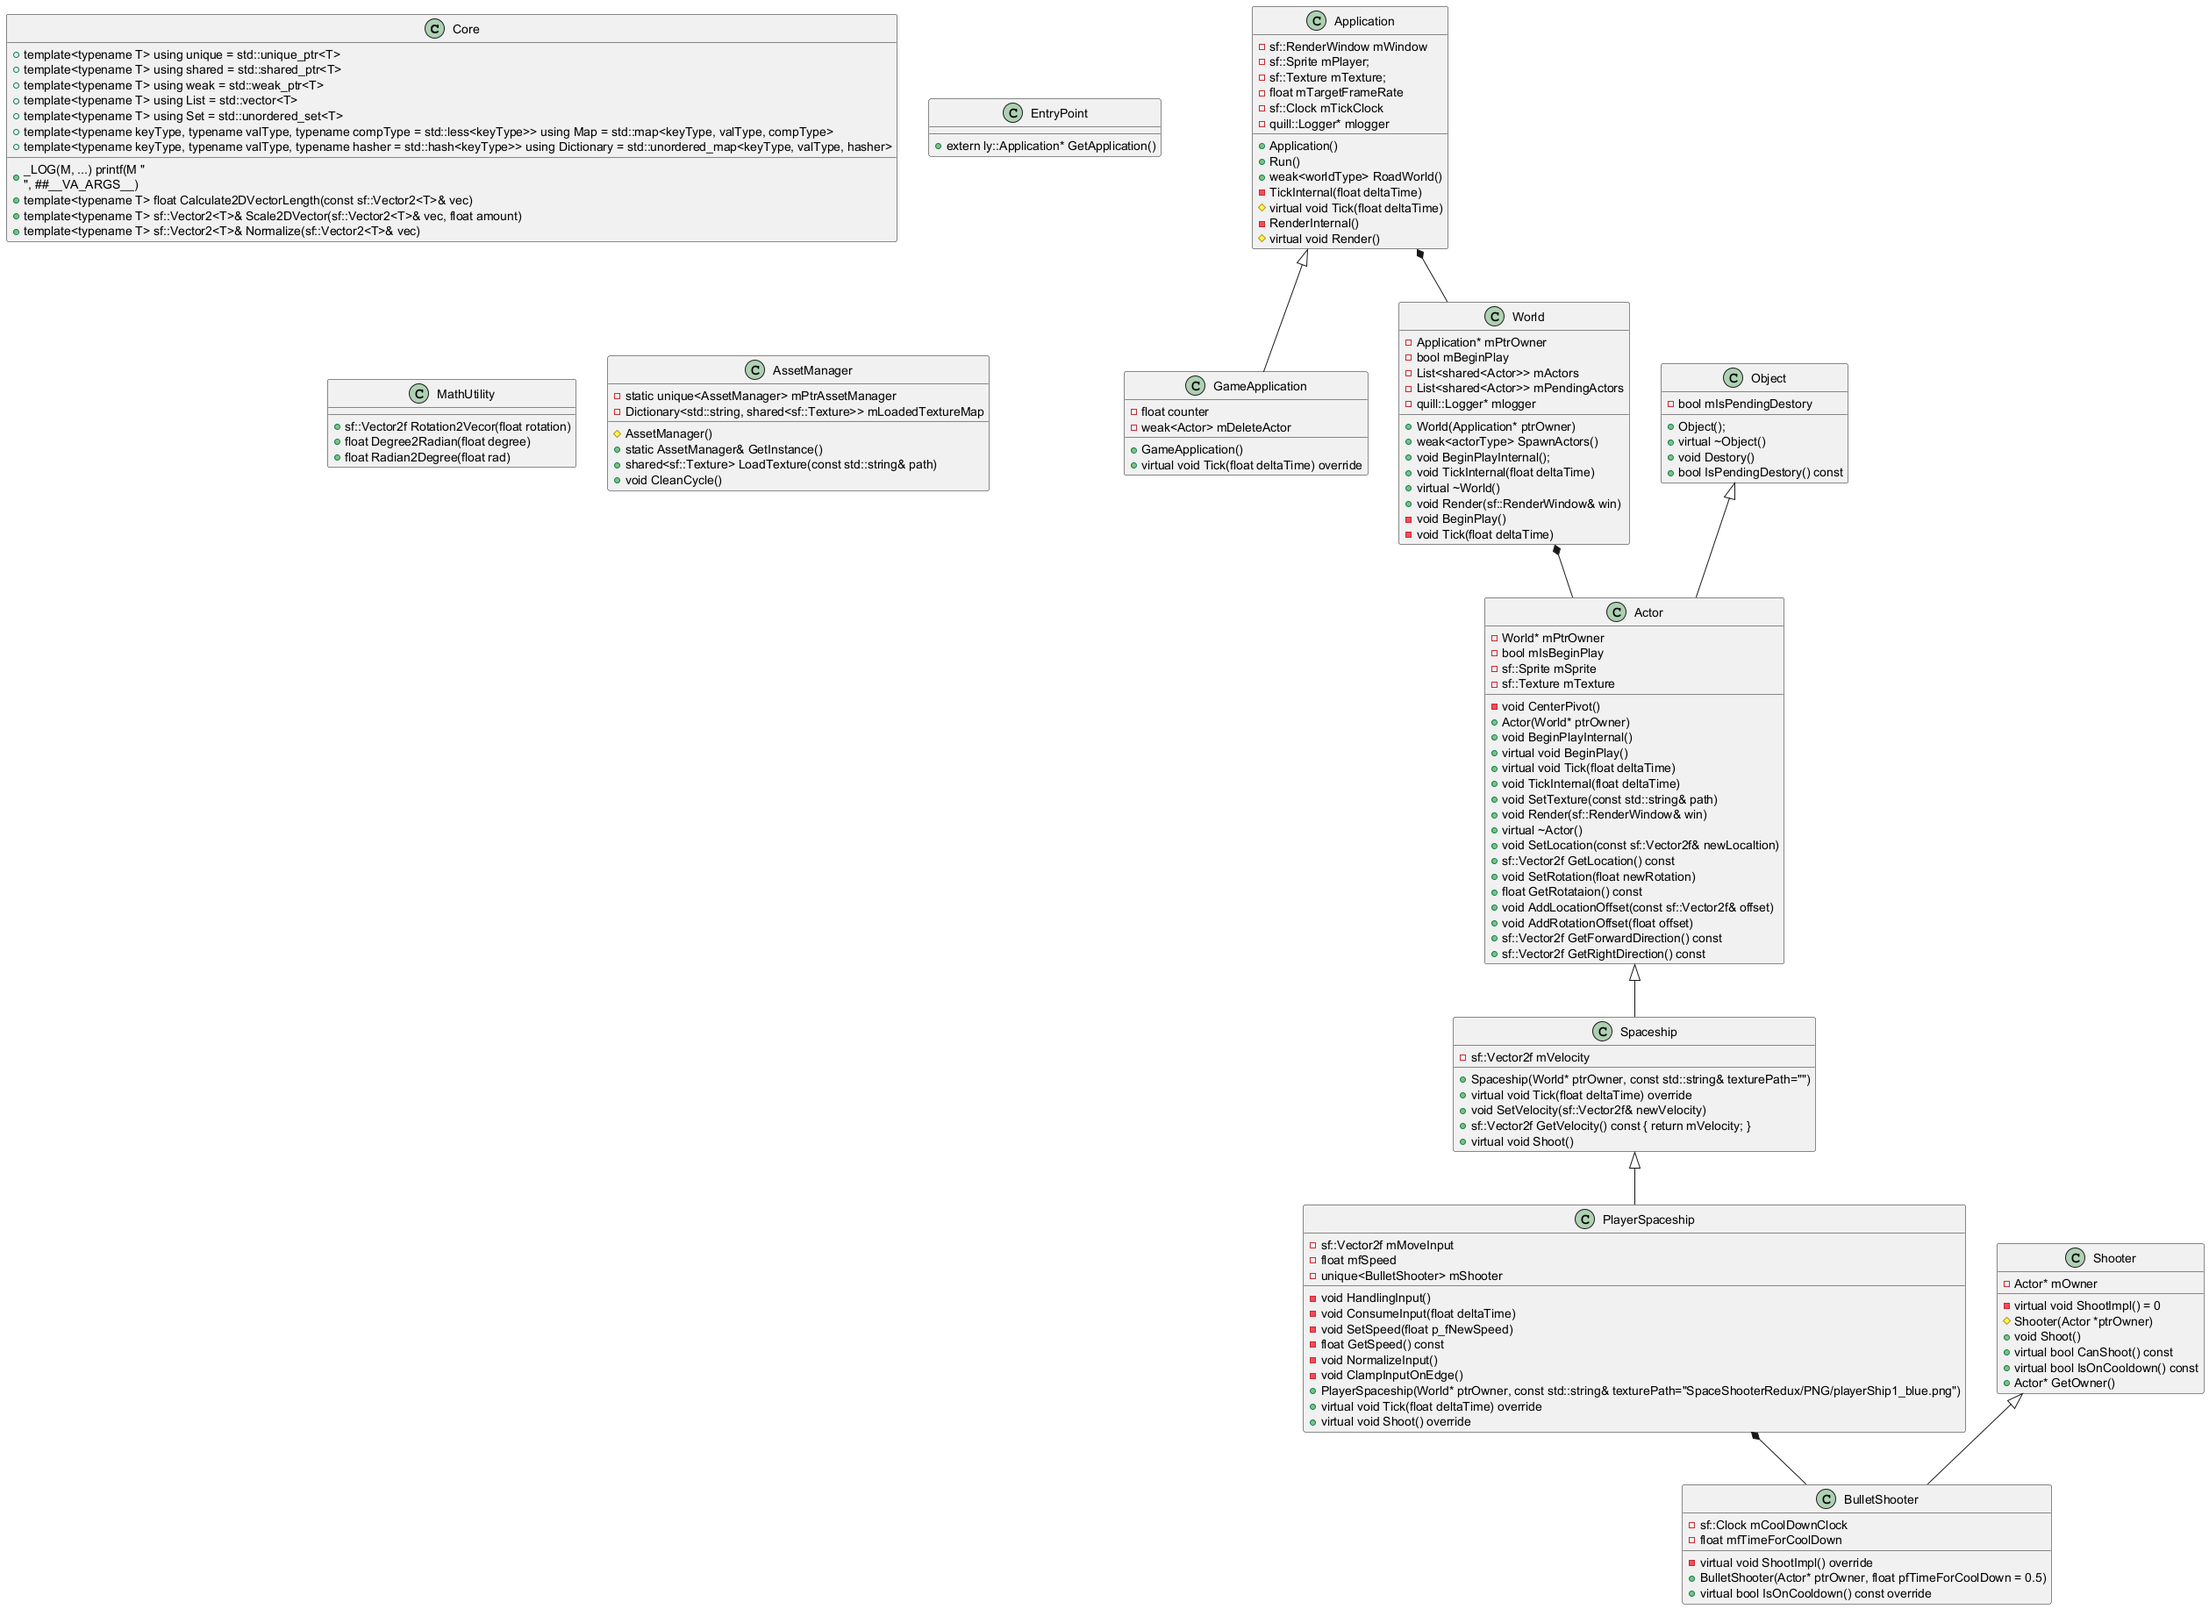
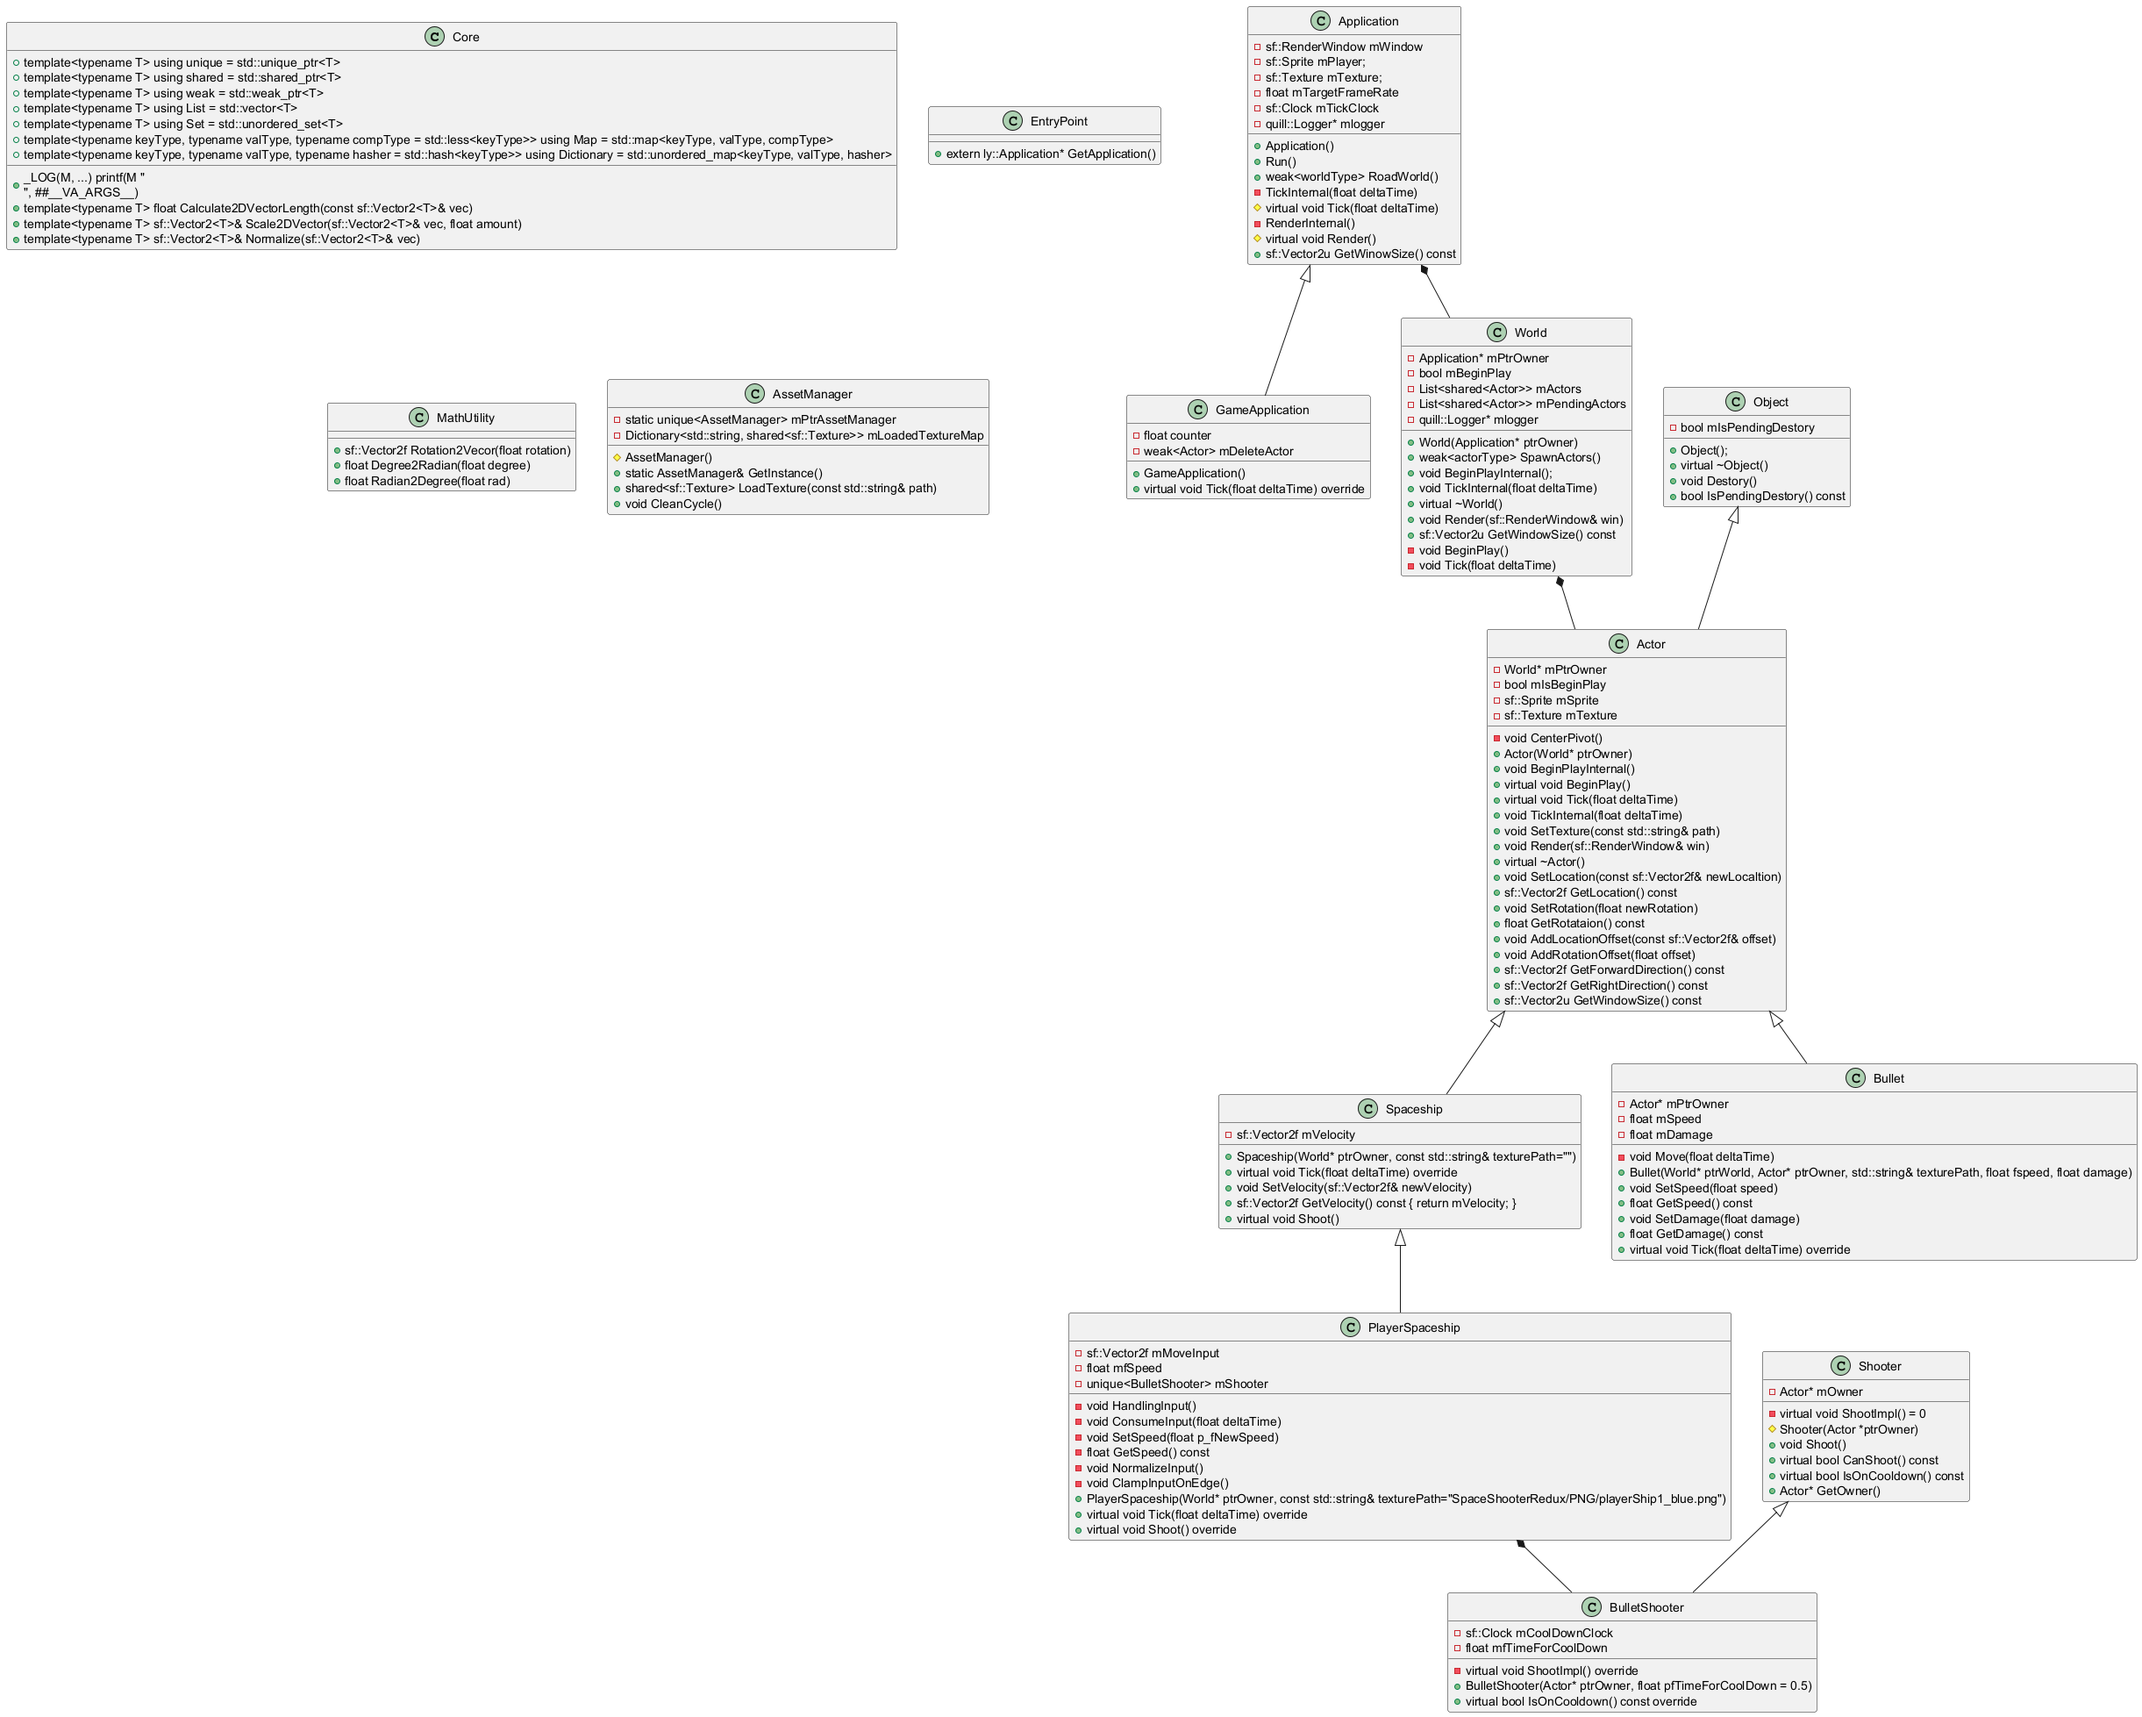
solved the problem bullets are firing sideways

diff --git a/game/src/player/PlayerSpaceship.cpp b/game/src/player/PlayerSpaceship.cpp
@@ -8,7 +8,7 @@ ly::PlayerSpaceship::PlayerSpaceship(World* ptrOwner, const std::string& texture
 	:Spaceship{ ptrOwner , texturePath }, 
 	 mDisplacementInput{}, 
 	mfSpeed{200.f}, 
-	mShooter{new BulletShooter(this)}
+	mShooter{ new BulletShooter{this} }
 {
 }
 
@@ -24,17 +24,17 @@ void ly::PlayerSpaceship::HandlingInput()
 {
 	//If we not use if else for the oppose key detected, it allow diagonal move 
 	if (sf::Keyboard::isKeyPressed(sf::Keyboard::Up) || sf::Keyboard::isKeyPressed(sf::Keyboard::W)) {
-		mDisplacementInput.y += -1.f;
+		mDisplacementInput.y = -1.f;
 	}
 	else if (sf::Keyboard::isKeyPressed(sf::Keyboard::Down) || sf::Keyboard::isKeyPressed(sf::Keyboard::S)) {
-		mDisplacementInput.y += 1.f;
+		mDisplacementInput.y = 1.f;
 	}
 	
 	if (sf::Keyboard::isKeyPressed(sf::Keyboard::Left) || sf::Keyboard::isKeyPressed(sf::Keyboard::A)) {
-		mDisplacementInput.x += -1.f;
+		mDisplacementInput.x = -1.f;
 	}
 	else if (sf::Keyboard::isKeyPressed(sf::Keyboard::Right) || sf::Keyboard::isKeyPressed(sf::Keyboard::D)) {
-		mDisplacementInput.x += 1.f;
+		mDisplacementInput.x = 1.f;
 	}
 
 	
@@ -72,7 +72,7 @@ void ly::PlayerSpaceship::ClampInputOnEdge()
 {
 	sf::Vector2f curLoc = GetLocation();
 	//Check if the postion x is on 0, and player still want to move left, set mMoveInput.x = 0
-	if (curLoc.x <= epsilon && mDisplacementInput.x == -1) {
+	if (curLoc.x < epsilon && mDisplacementInput.x == -1) {
 		mDisplacementInput.x = 0.f;
 	}
 
@@ -80,7 +80,7 @@ void ly::PlayerSpaceship::ClampInputOnEdge()
 		mDisplacementInput.x = 0.f;
 	}
 
-	if (curLoc.y <= epsilon && mDisplacementInput.y == -1) {
+	if (curLoc.y < epsilon && mDisplacementInput.y == -1) {
 		mDisplacementInput.y = 0.f;
 	}
 

diff --git a/engine/include/framework/World.h b/engine/include/framework/World.h
@@ -24,8 +24,9 @@ namespace ly {
 		virtual ~World();
 		void Render(sf::RenderWindow& win);
 
-		template<typename actorType>
-		weak<actorType> SpawnActors();
+		//Handle the Bullet, it need to change it
+		template<typename actorType, typename... Args>
+		weak<actorType> SpawnActors(Args... args);
 
 		sf::Vector2u GetWindowSize() const { return mPtrOwner->GetWinowSize(); }
 
@@ -41,9 +42,9 @@ namespace ly {
 
 	};
 
-	template<typename actorType>
-	weak<actorType> World::SpawnActors() {
-		shared<actorType> newActor{ new actorType{this} };
+	template<typename actorType, typename... Args>
+	weak<actorType> World::SpawnActors(Args... args) {
+		shared<actorType> newActor{ new actorType(this, args...) };
 		mPendingActors.push_back(newActor);
 		return newActor;
 	}

diff --git a/game/src/weapon/BulletShooter.cpp b/game/src/weapon/BulletShooter.cpp
@@ -1,5 +1,8 @@
 #include "weapon/BulletShooter.h"
+#include "weapon/Bullet.h"
 #include <framework/Core.h>
+#include "framework/World.h"
+
 
 ly::BulletShooter::BulletShooter(Actor* ptrOwner, float pfTimeForCoolDown)
 	:Shooter{ ptrOwner },
@@ -21,5 +24,11 @@ bool ly::BulletShooter::IsOnCooldown() const
 void ly::BulletShooter::ShootImpl()
 {
 	mCoolDownClock.restart();
+	weak<Bullet> newBullet = GetOwner()->GetWorld()->SpawnActors<Bullet>(GetOwner(), "SpaceShooterRedux/PNG/Lasers/laserBlue01.png");
+	
+	newBullet.lock()->SetLocation(GetOwner()->GetLocation());
+	newBullet.lock()->SetRotation(GetOwner()->GetRotataion());
+	
 	_LOG("[BulletShooter] Shooting");
+
 }

diff --git a/engine/include/framework/Actor.h b/engine/include/framework/Actor.h
@@ -4,6 +4,7 @@
 #include<SFML/Graphics.hpp>
 #include "framework/Core.h"
 #include "framework/World.h"
+#include "framework/MathUtility.h"
 
 namespace ly {
 	/*
@@ -27,11 +28,14 @@ namespace ly {
 		float GetRotataion() const;
 		void AddLocationOffset(const sf::Vector2f& offset);
 		void AddRotationOffset(float offset);
+		sf::Vector2f GetLeftDirection() const { return Rotation2Vecor(GetRotataion() - 90.f); }
 
 		sf::Vector2f GetForwardDirection() const;
 		sf::Vector2f GetRightDirection() const;
 
 		sf::Vector2u GetWindowSize() const { return mPtrOwner->GetWindowSize(); }
+
+		World* GetWorld() const { return mPtrOwner; }
 
 	private:
 		void CenterPivot();

diff --git a/game/include/weapon/Bullet.h b/game/include/weapon/Bullet.h
@@ -1,0 +1,22 @@
+#pragma once
+#include "framework/Actor.h"
+
+namespace ly {
+	class World;
+	class Bullet :public Actor {
+	public:
+		//ptrOwner: Actor stand for who shoot the bullet 
+		Bullet(World* ptrWorld, Actor* ptrOwner, const std::string& texturePath, float fSpeed = 300.f, float fDamage = 10.f);
+		void SetSpeed(float speed) { mSpeed = speed; }
+		float GetSpeed() const { return mSpeed; }
+		void SetDamage(float damage) { mDamage = damage; }
+		float GetDamage() const { return mDamage; }
+		virtual void Tick(float deltaTime) override;
+	private:
+		void Move(float deltaTime);
+	private:
+		Actor* mPtrOwner;
+		float mSpeed;
+		float mDamage;
+	};
+}

diff --git a/game/src/game_framework/GameApplication.cpp b/game/src/game_framework/GameApplication.cpp
@@ -18,7 +18,6 @@ ly::GameApplication::GameApplication()
 	weak<World> newWorld = LoadWorld<World>();
 	newWorld.lock()->SpawnActors<Actor>();
 	mTestPlayeSpaceship = newWorld.lock()->SpawnActors<PlayerSpaceship>();
-	//mTestPlayeSpaceship.lock()->SetTexture("SpaceShooterRedux/PNG/playerShip1_blue.png");
 	mTestPlayeSpaceship.lock()->SetLocation(sf::Vector2f(600 / 2, 980 / 2));
 	//mTestPlayeSpaceship.lock()->SetRotation(180.f);
 	//mTestPlayeSpaceship.lock()->SetVelocity(sf::Vector2f{ 0.f, -200.f });

diff --git a/game/src/weapon/Bullet.cpp b/game/src/weapon/Bullet.cpp
@@ -1,0 +1,23 @@
+#include "weapon/Bullet.h"
+
+ly::Bullet::Bullet(World* ptrWorld, Actor* ptrOwner, const std::string& texturePath, float fSpeed, float fDamage)
+	:Actor{ ptrWorld , texturePath },
+	 mPtrOwner{ ptrOwner },
+	 mSpeed{ fSpeed },
+	mDamage{ fDamage }
+{
+}
+
+void ly::Bullet::Tick(float deltaTime)
+{
+	Actor::Tick(deltaTime);
+	Move(deltaTime);
+
+}
+
+void ly::Bullet::Move(float deltaTime)
+{
+	SetRotation(0.f);
+	AddLocationOffset(GetLeftDirection() * mSpeed * deltaTime);
+
+}
